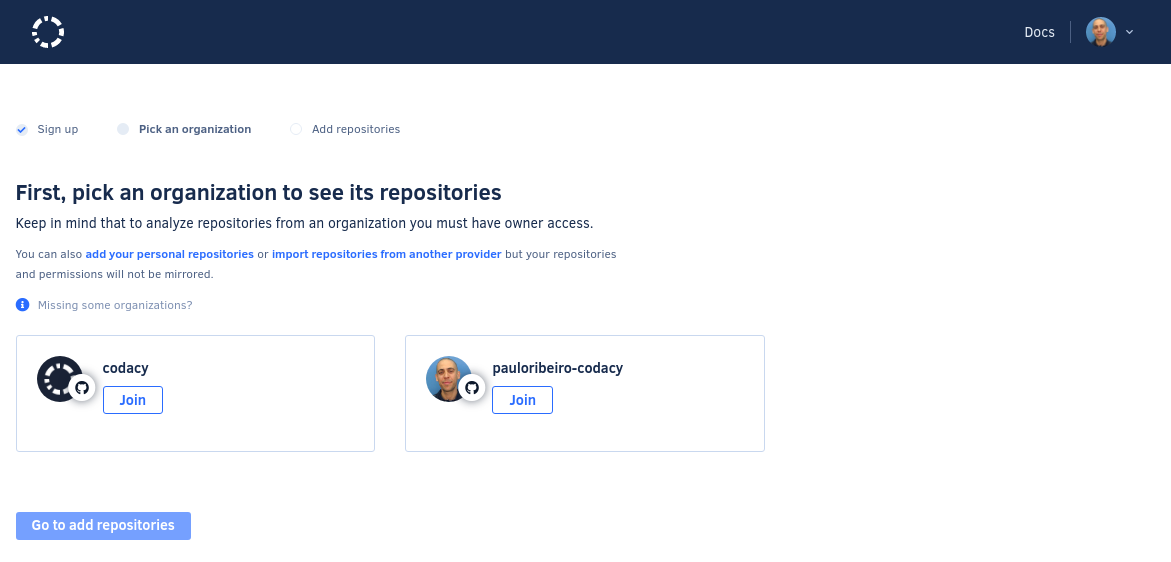
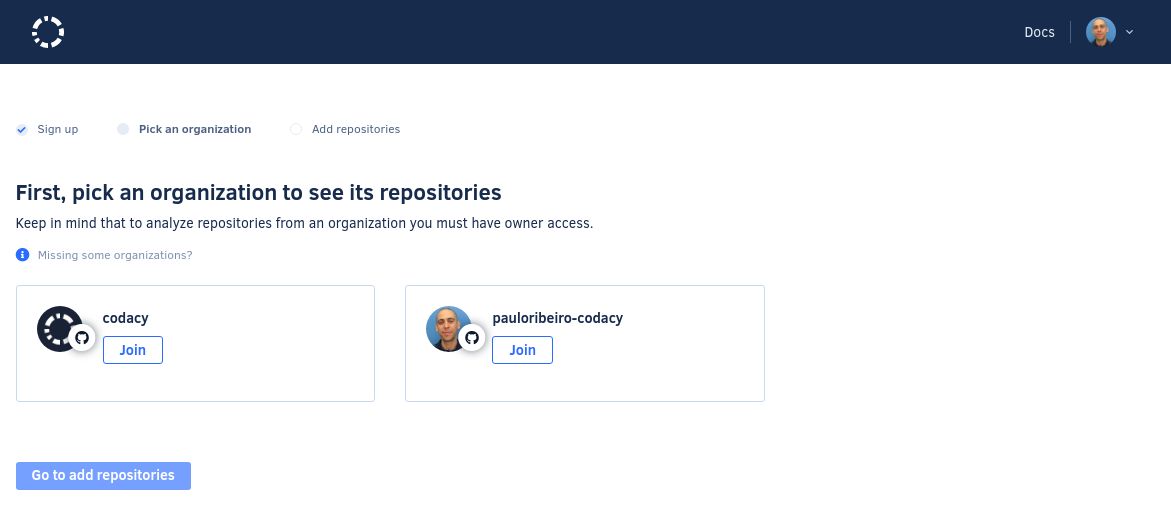
Update Organizations page screenshots with correct navigation

diff --git a/docs/getting-started/getting-started-with-codacy.md b/docs/getting-started/getting-started-with-codacy.md
@@ -16,7 +16,7 @@ You'll be asked to fill in a few details about your company so we know a bit mor
 
 ## 3. Choose an organization {: id="choose-organization"}
 
-Now, you'll need to join one or more organizations that contain your repositories. The selected organization will then be synced with Codacy so that managing your team permissions is easy. Read more about [what synced organizations do](../organizations/what-are-synced-organizations.md). The organization with the same name as your Git provider username contains your personal repositories.
+Now, you'll need to join one or more organizations that contain your repositories. The organization with the same name as your Git provider username contains your personal repositories. The selected organizations will then be synced with Codacy so that managing your team permissions is easy. Read more about [what synced organizations do](../organizations/what-are-synced-organizations.md). 
 
 !!! tip
     If you can't see the organization you are looking for, [read this troubleshooting page](../organizations/why-cant-i-see-my-organization.md).

diff --git a/docs/organizations/what-are-synced-organizations.md b/docs/organizations/what-are-synced-organizations.md
@@ -1,8 +1,6 @@
 # What are synced organizations
 
-With synced organizations, your Git provider organizations, repositories, and members will be automatically imported into Codacy. Changes to membership will reflect on Codacy in real time and you can add new repositories to Codacy in one click.
-
-![Organizations list](images/organizations.png)
+With synced organizations, your Git provider organizations, repositories, and members will be automatically imported into Codacy. You can add new repositories to Codacy with one click, and changes to membership will reflect on Codacy in real time.
 
 By setting up a synced organization, you avoid having to deal with manual team and repository management, duplicate repositories, stuck repositories created with insufficient permissions and blocked pull request status due to overriding.
 
